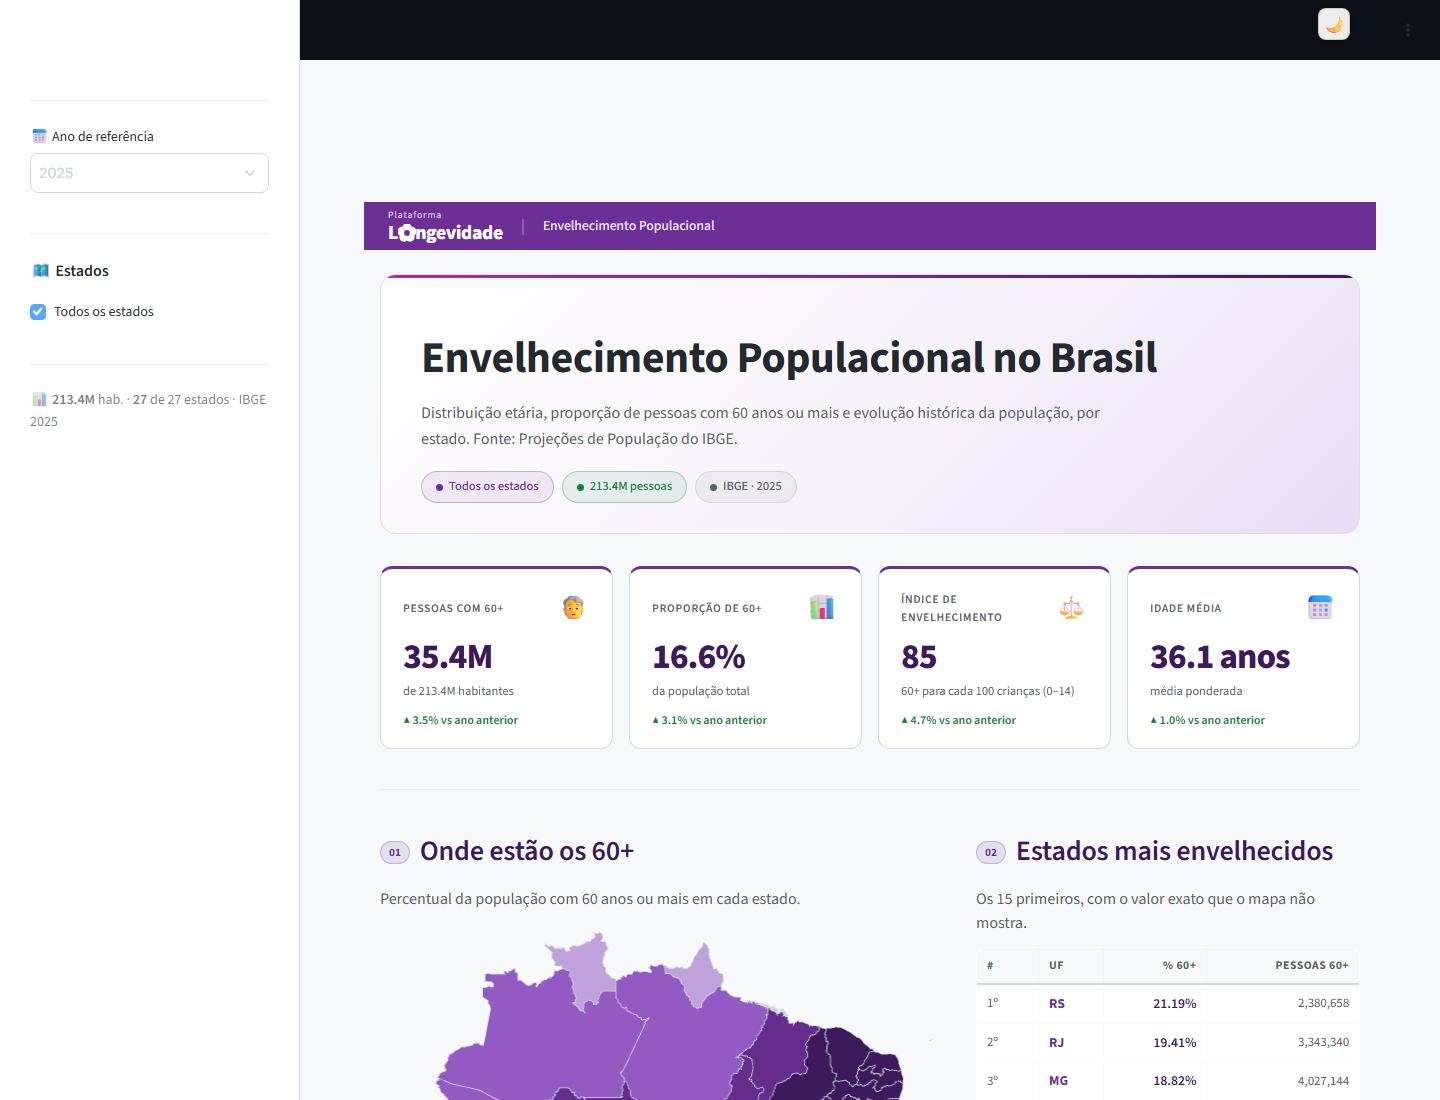
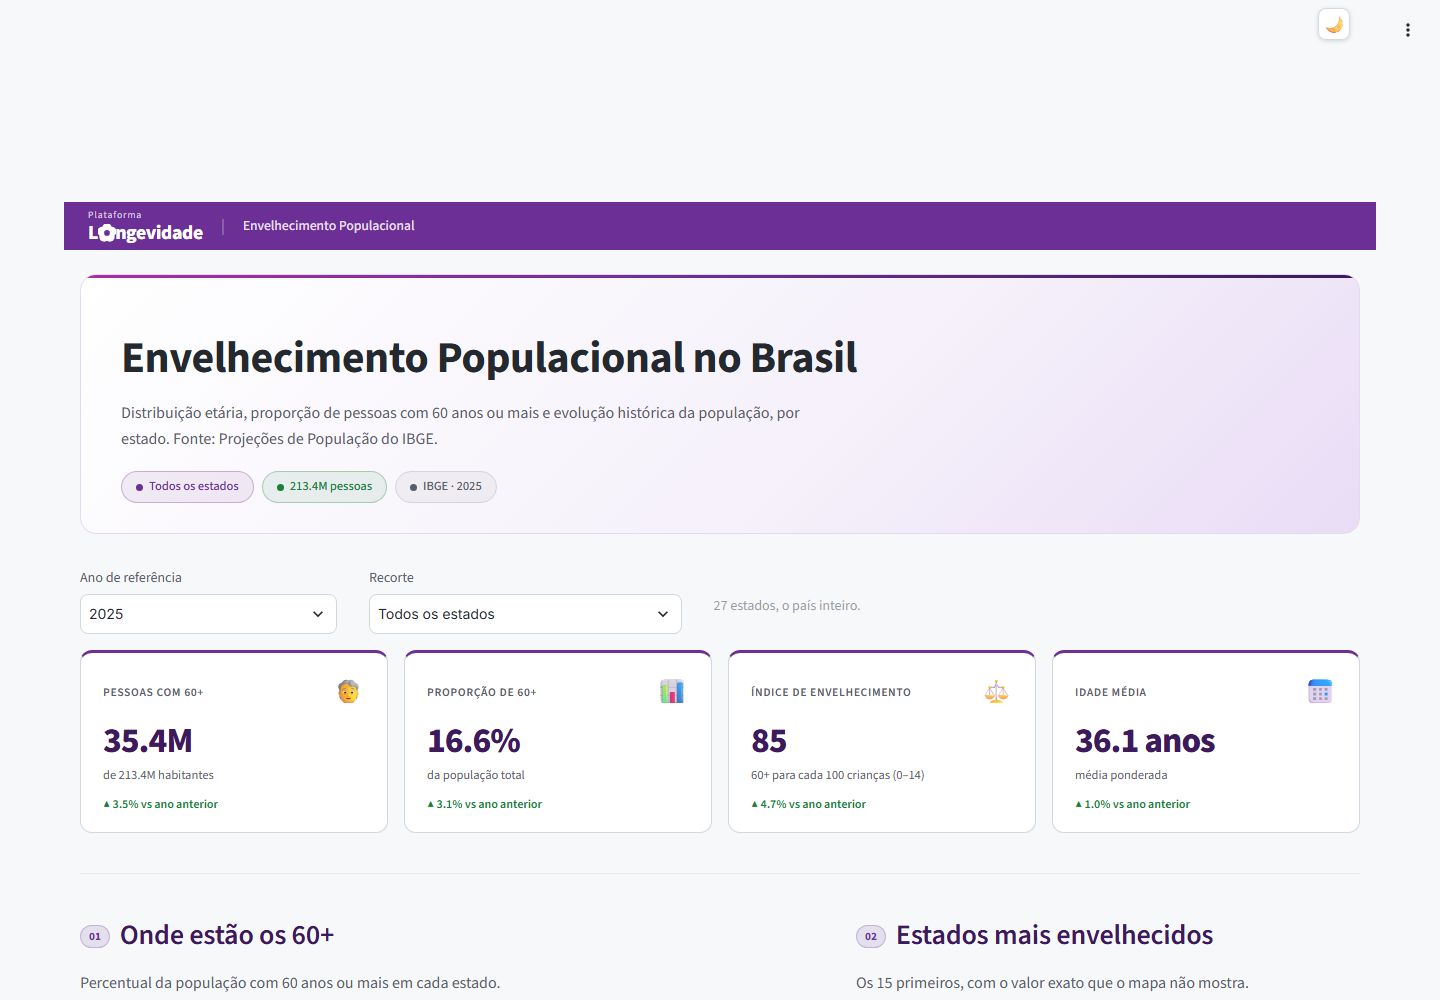
feat: tira a barra lateral e corrige o tema nativo do Streamlit
Duas coisas que o print do README denunciou, e nenhuma era do print.

**O tema nativo estava inteiro na identidade antiga.** O `.streamlit/config.toml`
tinha `base = "dark"` e `primaryColor = "#58a6ff"` -- o azul do Cenarios. Dai a
faixa escura no topo de um painel claro e o checkbox azul na lateral. A troca
de marca mexeu no CSS do conteudo (`src/themes.py`) e nao aqui: sao dois temas,
o do conteudo e o da moldura que o Streamlit desenha em volta, e o segundo
passou batido. Agora e `base = "light"` com o roxo da marca.

**A barra lateral saiu.** Os filtros viram uma linha logo abaixo do titulo,
acima do que eles mudam -- que e onde filtro deve ficar. O painel ganha a
largura toda de volta.

De quebra, a interacao simplificou. Eram tres controles encadeados para uma
escolha so: um checkbox "Todos os estados", um seletor de regiao que so
aparecia ao desmarca-lo, e um multiselect que so aparecia se a regiao fosse
"nenhum". Agora e um seletor de recorte -- todos, uma regiao, ou estados a
dedo -- e o multiselect aparece so na ultima opcao.

O titulo continua acima dos filtros, mas precisa dos valores que eles
produzem; resolvido reservando um `st.container()` antes e escrevendo nele
depois.

Print do README regerado: sem barra lateral, cabecalho claro.

diff --git a/app.py b/app.py
@@ -24,7 +24,7 @@ st.set_page_config(
     page_title="Envelhecimento Populacional | Longevidade",
     page_icon="🗺",
     layout="wide",
-    initial_sidebar_state="expanded",
+    # Sem barra lateral: os filtros vivem numa linha no corpo da página.
 )
 
 
@@ -66,76 +66,6 @@ _ano_default = st.session_state.get("ano_sel", _anos[0])
 _df_default  = carregar_dados(_ano_default)
 _ufs_disp    = sorted(_df_default["uf"].unique().tolist())
 
-# ── Callbacks ────────────────────────────────────────────────────────────────
-def _on_regiao_change():
-    """Callback do selectbox de região — preenche o multiselect de UFs.
-
-    Disparado quando o usuário escolhe uma região; substitui a seleção
-    atual do multiselect (`ms_ufs`) pelas UFs daquela região.
-    """
-    regiao = st.session_state.get("sel_regiao", "— nenhum —")
-    st.session_state["ms_ufs"] = (
-        [u for u in REGIOES.get(regiao, []) if u in _ufs_disp]
-        if regiao != "— nenhum —" else []
-    )
-
-def _on_todos_change():
-    """Callback do checkbox "Todos os estados" — limpa a seleção ao desmarcar.
-
-    Ao desmarcar, esvazia o multiselect de UFs para o usuário escolher um
-    subconjunto explicitamente (em vez de manter a seleção anterior).
-    """
-    if not st.session_state.get("chk_todos", True):
-        st.session_state["ms_ufs"] = []
-
-# ── Sidebar ───────────────────────────────────────────────────────────────────
-with st.sidebar:
-    st.divider()
-
-    ano_sel = st.selectbox("📅 Ano de referência", options=_anos, index=0, key="ano_sel")
-    ano_ant = _anos[_anos.index(ano_sel) + 1] if _anos.index(ano_sel) + 1 < len(_anos) else None
-
-    st.divider()
-    st.markdown("**🗺 Estados**")
-
-    todos = st.checkbox("Todos os estados", value=True, key="chk_todos", on_change=_on_todos_change)
-
-    if not todos:
-        regiao_atual = st.session_state.get("sel_regiao", "— nenhum —")
-        st.selectbox(
-            "Filtrar por região:",
-            options=["— nenhum —"] + list(REGIOES.keys()),
-            key="sel_regiao",
-            on_change=_on_regiao_change,
-        )
-        regiao_atual = st.session_state.get("sel_regiao", "— nenhum —")
-
-        if regiao_atual != "— nenhum —":
-            _ufs_regiao = [u for u in REGIOES.get(regiao_atual, []) if u in _ufs_disp]
-            st.markdown(
-                # Cor do tema, e não hexadecimal solto: era #58a6ff fixo, que
-                # sobrevivia à troca de marca e ao tema escuro.
-                f"<div style='background:{t['accent']}1a;border:1px solid {t['accent']}4d;"
-                f"border-radius:8px;padding:8px 12px;font-size:.82rem;color:{t['accent']};margin-top:4px'>"
-                f"📍 <b>{regiao_atual}</b> · {len(_ufs_regiao)} estados</div>",
-                unsafe_allow_html=True,
-            )
-            ufs_sel = _ufs_regiao
-        else:
-            ufs_sel = st.multiselect(
-                "Estados:",
-                options=_ufs_disp,
-                key="ms_ufs",
-                placeholder="Selecione estados...",
-            )
-            if not ufs_sel:
-                ufs_sel = _ufs_disp
-    else:
-        ufs_sel = _ufs_disp
-
-    st.divider()
-    filtrar_idosos_pizza = False  # definido abaixo no card
-
 # ── Tema ──────────────────────────────────────────────────────────────────────
 st.markdown(_css(t), unsafe_allow_html=True)
 
@@ -166,6 +96,51 @@ if st.session_state.theme == "light":
         unsafe_allow_html=True,
     )
 
+# ── Filtros ──────────────────────────────────────────────────────────────────
+# Numa linha, logo abaixo do título e acima do que eles mudam.
+#
+# Eram três controles numa barra lateral: um checkbox "Todos os estados", um
+# seletor de região que só aparecia ao desmarcá-lo, e um multiselect que só
+# aparecia se a região fosse "nenhum". Três controles encadeados para uma
+# escolha só, escondidos num painel que o leitor precisava abrir — e que
+# roubava um quinto da largura do painel.
+#
+# Aqui a escolha do recorte é **um** seletor: todos, uma região, ou estados a
+# dedo. O multiselect só aparece na última opção.
+RECORTE_TODOS = "Todos os estados"
+RECORTE_ESCOLHER = "Escolher estados…"
+
+_hero = st.container()  # reservado: o título vai acima dos filtros, mas
+                        # precisa dos valores que eles produzem
+
+col_ano, col_recorte, col_estados = st.columns([1, 1.2, 2.4], gap="medium")
+
+with col_ano:
+    ano_sel = st.selectbox("Ano de referência", options=_anos, index=0, key="ano_sel")
+    ano_ant = _anos[_anos.index(ano_sel) + 1] if _anos.index(ano_sel) + 1 < len(_anos) else None
+
+with col_recorte:
+    recorte = st.selectbox(
+        "Recorte",
+        options=[RECORTE_TODOS, *REGIOES, RECORTE_ESCOLHER],
+        key="sel_recorte",
+    )
+
+with col_estados:
+    if recorte == RECORTE_ESCOLHER:
+        ufs_sel = st.multiselect(
+            "Estados", options=_ufs_disp, key="ms_ufs",
+            placeholder="Nenhum escolhido mostra todos",
+        ) or _ufs_disp
+    elif recorte == RECORTE_TODOS:
+        ufs_sel = _ufs_disp
+        st.markdown("<div style='height:1.8rem'></div>", unsafe_allow_html=True)
+        st.caption(f"{len(ufs_sel)} estados, o país inteiro.")
+    else:
+        ufs_sel = [u for u in REGIOES[recorte] if u in _ufs_disp]
+        st.markdown("<div style='height:1.8rem'></div>", unsafe_allow_html=True)
+        st.caption(f"{recorte}: {', '.join(ufs_sel)}.")
+
 # ── Dados ─────────────────────────────────────────────────────────────────────
 df_raw             = carregar_dados(ano_sel)
 df_proc, df_idosos = processar_dados(df_raw)
@@ -176,9 +151,6 @@ df_proc_ant, df_idosos_ant = processar_dados(df_ant) if df_ant is not None else 
 
 pop_total = int(df_proc["populacao"].sum())
 n_ufs     = df_proc["uf"].nunique()
-
-with st.sidebar:
-    st.caption(f"📊 **{_fmt(pop_total)}** hab. · **{len(ufs_sel)}** de {n_ufs} estados · IBGE {ano_sel}")
 
 # ── Métricas filtradas ────────────────────────────────────────────────────────
 df_filt    = df_proc[df_proc["uf"].isin(ufs_sel)]
@@ -220,7 +192,7 @@ _label_ufs = (
     else f"{len(ufs_sel)} estado{'s' if len(ufs_sel) > 1 else ''} selecionado{'s' if len(ufs_sel) > 1 else ''}"
 )
 
-st.markdown(f"""
+_hero.markdown(f"""
 <div class="hero">
   <h1 class="hero-title">Envelhecimento Populacional no Brasil</h1>
   <p class="hero-subtitle">

diff --git a/docs/ARQUITETURA.md b/docs/ARQUITETURA.md
@@ -24,7 +24,7 @@ src/charts.py::processar_dados() ──► deriva faixa etária + recorte 60+ po
         │                         cortes de src/data.py::cortes_quartis())
         │
         ▼
-app.py ──► monta sidebar/filtros, chama src/charts.py::fig_*() para cada gráfico,
+app.py ──► monta a linha de filtros, chama src/charts.py::fig_*() para cada gráfico,
            src/utils.py para HTML de KPIs/tabelas, src/themes.py para CSS e marca
         │
         ▼
@@ -37,7 +37,7 @@ Streamlit renderiza no navegador
 
 | Arquivo | Responsabilidade |
 |---|---|
-| `app.py` | Entrada Streamlit — sidebar, filtros, layout, orquestra os módulos abaixo |
+| `app.py` | Entrada Streamlit — filtros, layout, orquestra os módulos abaixo |
 | `src/data.py` | Carregamento e cache dos Parquet (única camada que toca disco) |
 | `src/charts.py` | Processamento (`processar_dados`) e as três figuras Plotly (rosca, pirâmide, linha) |
 | `src/mapa.py` | O coroplético, em pydeck/deck.gl e sem basemap — ver [Performance](performance.md) |
@@ -51,7 +51,16 @@ Não há camada de API nem banco de dados — tudo roda no processo do Streamlit
 
 ## Ambiente e variáveis
 
-Nenhuma variável de ambiente é necessária — não há credenciais, banco ou serviço externo. `.streamlit/config.toml` fixa `baseUrlPath = "cenarios/demografico-longevidade"` (precisa bater com a rota do proxy reverso em produção).
+Nenhuma variável de ambiente é necessária — não há credenciais, banco ou serviço externo. `.streamlit/config.toml` fixa `baseUrlPath = "cenarios/demografico-longevidade"`
+(precisa bater com a rota do proxy reverso em produção) e o **tema nativo** do
+Streamlit — a moldura que ele desenha em volta do app.
+
+São dois temas, e é fácil esquecer o segundo: o do conteúdo mora em
+`src/themes.py`, e o dos widgets e do cabeçalho mora aqui. A troca de marca
+mexeu só no primeiro, e por um tempo o painel teve faixa escura no topo e
+checkbox azul do Cenários na lateral.
+
+Não há barra lateral: os filtros vivem numa linha no corpo da página.
 
 ## Deploy
 

diff --git a/README.md b/README.md
@@ -46,9 +46,16 @@ O painel fala **"60+"**, não "idosos", em tudo que o leitor vê — ver
 
 ## Filtros
 
-- Ano de referência — atualiza KPIs e gráficos, com comparativo automático ao ano anterior
-- Seleção de estados — individual ou por região (Norte, Nordeste, Centro-Oeste, Sudeste, Sul)
-- Toggle "apenas ≥ 60 anos" no gráfico de distribuição por sexo
+Ficam **numa linha, logo abaixo do título** — não numa barra lateral. São dois
+seletores:
+
+- **Ano de referência** — atualiza KPIs e gráficos, com comparativo automático
+  ao ano anterior
+- **Recorte** — todos os estados, uma região (Norte, Nordeste, Centro-Oeste,
+  Sudeste, Sul) ou estados escolhidos a dedo
+
+Mais o toggle "Apenas ≥ 60 anos" dentro do gráfico de distribuição por sexo,
+que é onde ele age.
 
 ## Stack
 
@@ -139,7 +146,7 @@ Projeções de População do IBGE (2010–2025), por município, faixa etária 
 
 ```
 dashboard-demografico/
-├── app.py                  # entrada principal — sidebar, filtros, layout
+├── app.py                  # entrada principal — filtros, layout
 ├── src/
 │   ├── charts.py           # figuras Plotly
 │   ├── data.py              # carregamento e cache
